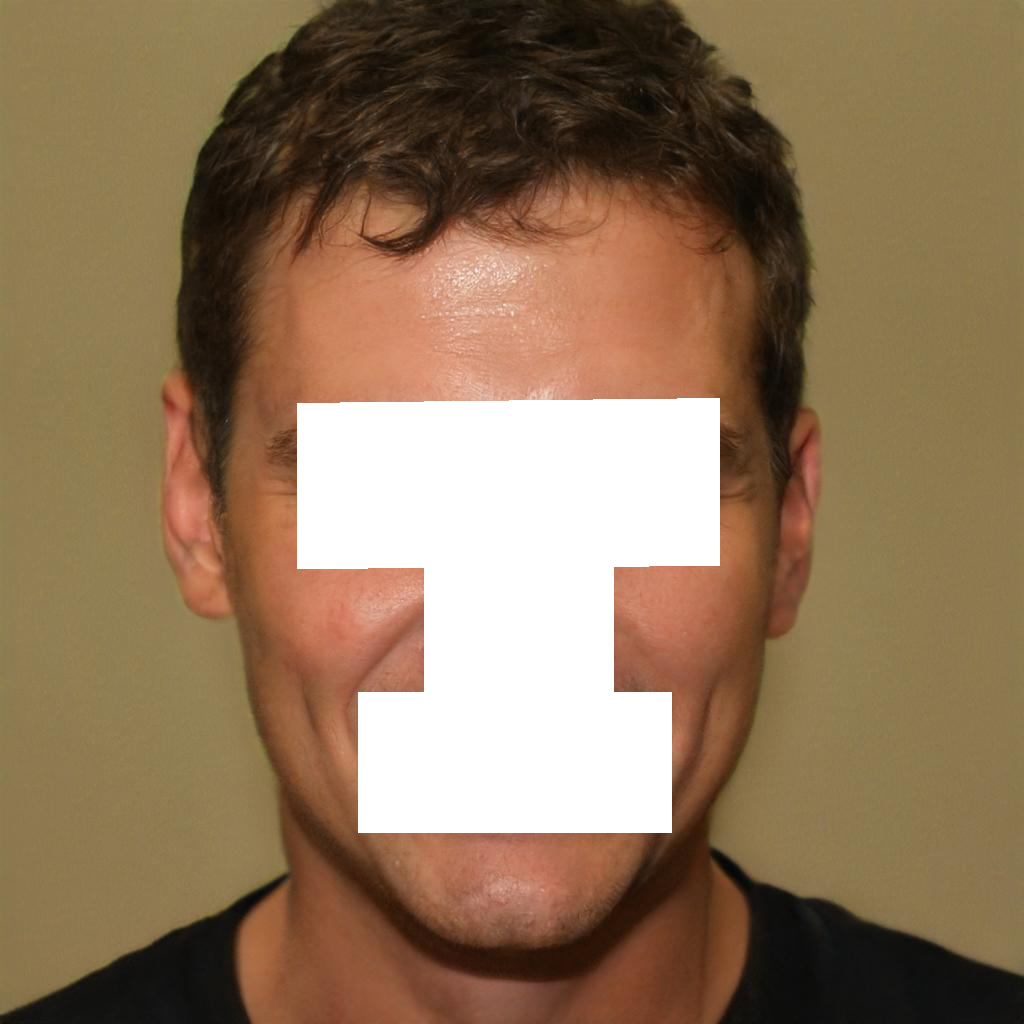
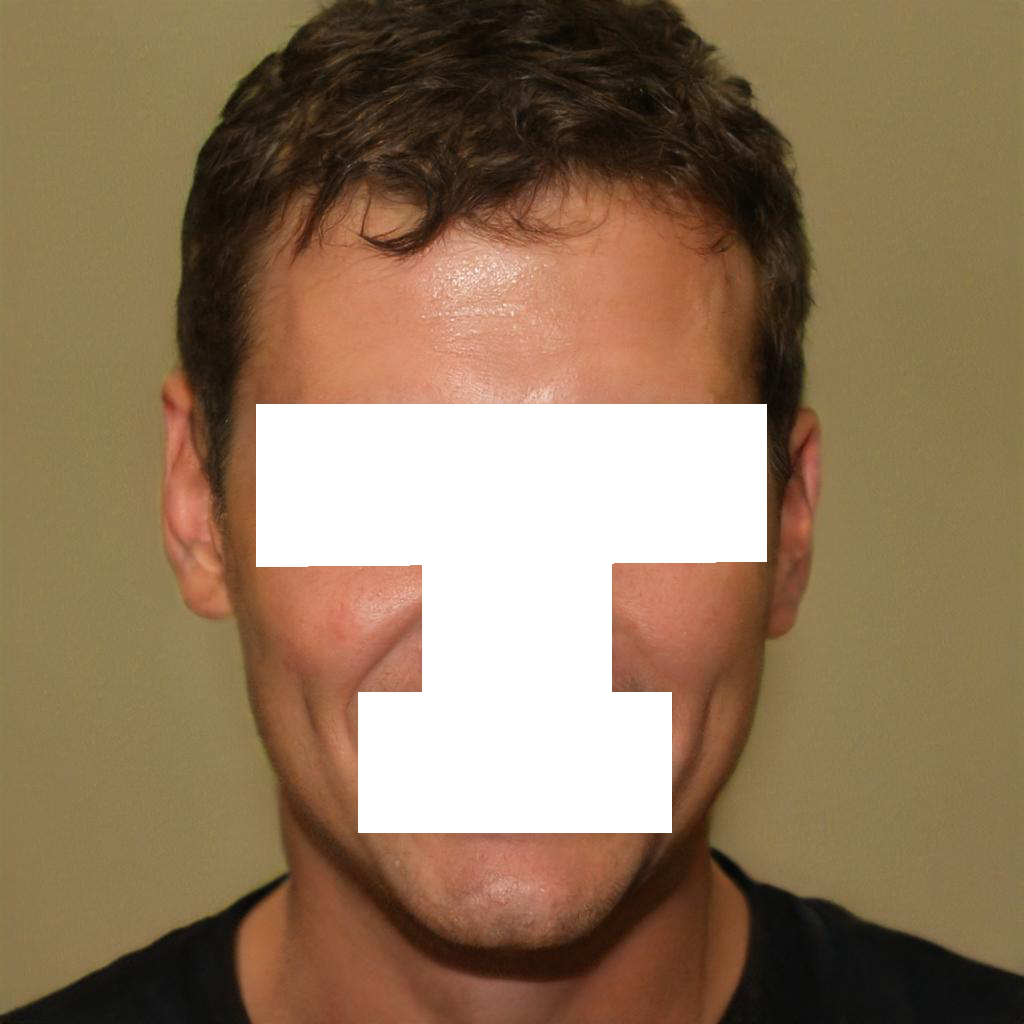
arrumando o corte no rosto
o corte no rosto estava sendo feita um seguida do outro, desta forma o reconhecedor perdia detalhes para reconhecer, agora é guardado em variaveis, e apenas ao final é feito todos os cortes de uma vez

Changed region(s): [[0.5, 0.375, 0.75, 0.5625], [0.25, 0.375, 0.3125, 0.5625], [0.5938, 0.5312, 0.6562, 0.5625]]

diff --git a/Reconhecedor_de_partes/Rosto.py b/Reconhecedor_de_partes/Rosto.py
@@ -21,7 +21,7 @@ def reconhecimento_e_corte_Rosto(progressbar, valor):
         progressbar["value"] = valor_mapeado
         progressbar.update() 
 
-        classificador = cv2.CascadeClassifier(r"anexos/eye.xml")
+        classificador = cv2.CascadeClassifier(r"anexos/right_eye2.xml")
         img = cv2.imread(f"IMAGENS-{genero}/{imgi}")
         imgGray = cv2.cvtColor(img, cv2.COLOR_BGRA2GRAY)
         objetos = classificador.detectMultiScale(imgGray, minSize=(120,120), scaleFactor=1.1, minNeighbors=10, maxSize=(950,220))
@@ -32,26 +32,9 @@ def reconhecimento_e_corte_Rosto(progressbar, valor):
         except:
             # print(f"{imgi} + Precisa Redimensionar, olho")
             cont = 0
-            img_corte = Image.fromarray(cv2.cvtColor(img, cv2.COLOR_BGR2RGB))
-            # tranforma o tamanho da imagem, (redimensiona)
-            if img_corte.width != 659 and img_corte.height != 711:
-                # print(f"{img_corte} + Precisa Redimensionar")
-
-                # Redimensiona
-                img_resized = img_corte.resize((659, 711))
-                #salva
-                # img_resized.save(f"IMAGENS-{genero}/{imgi}")
-            img_corte = cv2.cvtColor(np.array(img_corte), cv2.COLOR_RGB2BGR)
             # Define os pontos dos vértices
             pts_olhos = np.array([[159, 246], [159, 387], [524, 384], [524, 246]], np.int32)
 
-            # Cria uma máscara com os pontos
-            mask = np.zeros_like(img_corte)
-            cv2.fillPoly(mask, [pts_olhos], (255, 255, 255))
-
-            # Aplica a máscara na imagem original
-            img_cortada = cv2.bitwise_and(img_corte, mask)
-            part_cortada = cv2.bitwise_and(img_corte, cv2.bitwise_not(mask))
 
         if cont == 1:
             pts_olhos = np.array( [[olho_direito[0], olho_direito[1]],  
@@ -79,18 +62,10 @@ def reconhecimento_e_corte_Rosto(progressbar, valor):
                     [olho_esquerdo[0]+olho_esquerdo[2], olho_esquerdo[1]]]
                 
                 # print(pontos)
-            # Cria uma máscara com os pontos
-            mask = np.zeros_like(img)
-            cv2.fillPoly(mask, [pts_olhos], (255, 255, 255))
-
-
-            # Aplica a máscara na imagem original
-            part_cortada = cv2.bitwise_and(img, cv2.bitwise_not(mask))
 
 
 
         classificador = cv2.CascadeClassifier(r"anexos/nose.xml")
-        img = part_cortada
         imgGray = cv2.cvtColor(img, cv2.COLOR_BGRA2GRAY)
         objetos = classificador.detectMultiScale(imgGray, minSize=(120,120), scaleFactor=1.6, maxSize=(950,220))
         try:
@@ -99,29 +74,11 @@ def reconhecimento_e_corte_Rosto(progressbar, valor):
         except:
             # print(f"{imgi}, Precisa Redimensionar, nariz")
             cont = 0
-            img_corte = Image.fromarray(cv2.cvtColor(img, cv2.COLOR_BGR2RGB))
-            # tranforma o tamanho da imagem, (redimensiona)
-            if img_corte.width != 659 and img_corte.height != 711:
-                # print(f"{img_corte} + Precisa Redimensionar")
-
-                # Redimensiona
-                img_resized = img_corte.resize((659, 711))
-                #salva
-                # img_resized.save(f"IMAGENS-{genero}/{imgi}")
-            img_corte = cv2.cvtColor(np.array(img_corte), cv2.COLOR_RGB2BGR)
             # Define os pontos dos vértices
-            pts = np.array([[226, 221], [226, 498], [415, 498], [415, 221]], np.int32)
-
-            # Cria uma máscara com os pontos
-            mask = np.zeros_like(img_corte)
-            cv2.fillPoly(mask, [pts], (255, 255, 255))
-
-            # Aplica a máscara na imagem original
-            img_cortada = cv2.bitwise_and(img_corte, mask)
-            part_cortada = cv2.bitwise_and(img_corte, cv2.bitwise_not(mask))
+            pts_nariz = np.array([[226, 221], [226, 498], [415, 498], [415, 221]], np.int32)
 
         if cont == 1:
-            pts = np.array( [[Nariz[0], Nariz[1]-120],  
+            pts_nariz = np.array( [[Nariz[0], Nariz[1]-120],  
                             [Nariz[0], Nariz[1]+Nariz[3]], 
                             [Nariz[0]+Nariz[2], Nariz[1]+Nariz[3]], 
                             [Nariz[0]+Nariz[2], Nariz[1]-120]], np.int32)
@@ -132,20 +89,11 @@ def reconhecimento_e_corte_Rosto(progressbar, valor):
                             [Nariz[0]+Nariz[2], Nariz[1]-120]]
             # print(pontos)
 
-            # Cria uma máscara com os pontos
-            mask = np.zeros_like(img)
-            cv2.fillPoly(mask, [pts], (255, 255, 255))
-
-
-            # Aplica a máscara na imagem original
-            part_cortada = cv2.bitwise_and(img, cv2.bitwise_not(mask))
-
 
 
 
 
         classificador = cv2.CascadeClassifier(r"anexos/mouth.xml")
-        img = part_cortada
         objetos = classificador.detectMultiScale(imgGray, minSize=(90,90), scaleFactor=1.1, minNeighbors=190, maxSize=(950,220)) # ou maxSize
         try:
             boca = objetos[0]
@@ -153,30 +101,14 @@ def reconhecimento_e_corte_Rosto(progressbar, valor):
         except:
             # print(f"{imgi} + Precisa Redimensionar, boca")
             cont = 0
-            img_corte = Image.fromarray(cv2.cvtColor(img, cv2.COLOR_BGR2RGB))
-            # tranforma o tamanho da imagem, (redimensiona)
-            if img_corte.width != 659 and img_corte.height != 711:
-                # print(f"{img_corte} + Precisa Redimensionar")
-
-                # Redimensiona
-                img_resized = img_corte.resize((659, 711))
-                #salva
-                # img_resized.save(f"IMAGENS-{genero}/{imgi}")
-            img_corte = cv2.cvtColor(np.array(img_corte), cv2.COLOR_RGB2BGR)
             # Define os pontos dos vértices
-            pts = np.array([[185, 486], [185, 614], [479, 614], [479, 486]], np.int32)
+            pts_boca = np.array([[185, 486], [185, 614], [479, 614], [479, 486]], np.int32)
             # Cria uma máscara com os pontos
-            mask = np.zeros_like(img_corte)
-            cv2.fillPoly(mask, [pts], (255, 255, 255))
-
-            # Aplica a máscara na imagem original
-            part_cortada = cv2.bitwise_and(img_corte, cv2.bitwise_not(mask))
-
 
         if cont == 1:
 
             # img = cv2.imread("hascas/rosto.png")
-            pts = np.array( [[boca[0]-40, boca[1]],  
+            pts_boca = np.array( [[boca[0]-40, boca[1]],  
                             [boca[0]-40, boca[1]+boca[3]], 
                             [(boca[0]+40)+boca[2], boca[1]+boca[3]],
                             [(boca[0]+40)+boca[2], boca[1]]], np.int32)
@@ -188,21 +120,27 @@ def reconhecimento_e_corte_Rosto(progressbar, valor):
             
             # print(pontos)
 
-            # Cria uma máscara com os pontos
-            mask = np.zeros_like(img)
-            cv2.fillPoly(mask, [pts], (255, 255, 255))
 
+        mask = np.zeros_like(img)
+        cv2.fillPoly(mask, [pts_olhos], (255, 255, 255))
 
-            # # Aplica a máscara na imagem original
-            img_cortada = cv2.bitwise_and(img, mask)
-            part_cortada = cv2.bitwise_and(img, cv2.bitwise_not(mask))
+        # Aplica a máscara na imagem original
+        part_cortada = cv2.bitwise_and(img, cv2.bitwise_not(mask))
 
+        mask = np.zeros_like(part_cortada)
+        cv2.fillPoly(mask, [pts_nariz], (255, 255, 255))
 
+        # Aplica a máscara na imagem original
+        part_cortada = cv2.bitwise_and(part_cortada, cv2.bitwise_not(mask))
+
+        mask = np.zeros_like(part_cortada)
+        cv2.fillPoly(mask, [pts_boca], (255, 255, 255))
+
+        # Aplica a máscara na imagem original
+        part_cortada = cv2.bitwise_and(part_cortada, cv2.bitwise_not(mask))
 
         # Converta a imagem para o formato RGB para exibição com matplotlib
-        img_cortada = cv2.cvtColor(img_cortada, cv2.COLOR_BGR2RGB)
         part_cortada = cv2.cvtColor(part_cortada, cv2.COLOR_BGR2RGB)
-        img = cv2.cvtColor(img, cv2.COLOR_BGR2RGB)
 
 
         #aqui iremos transforma o redor da imagem em transparente
